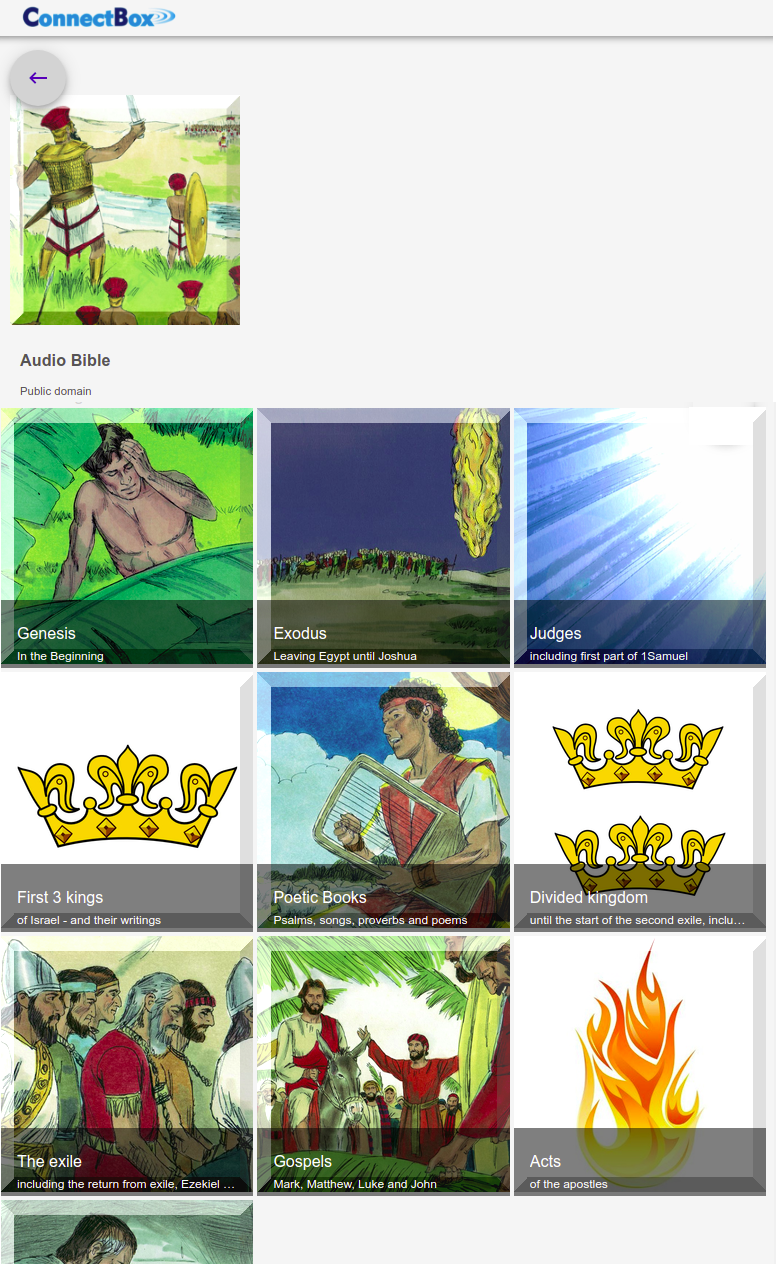
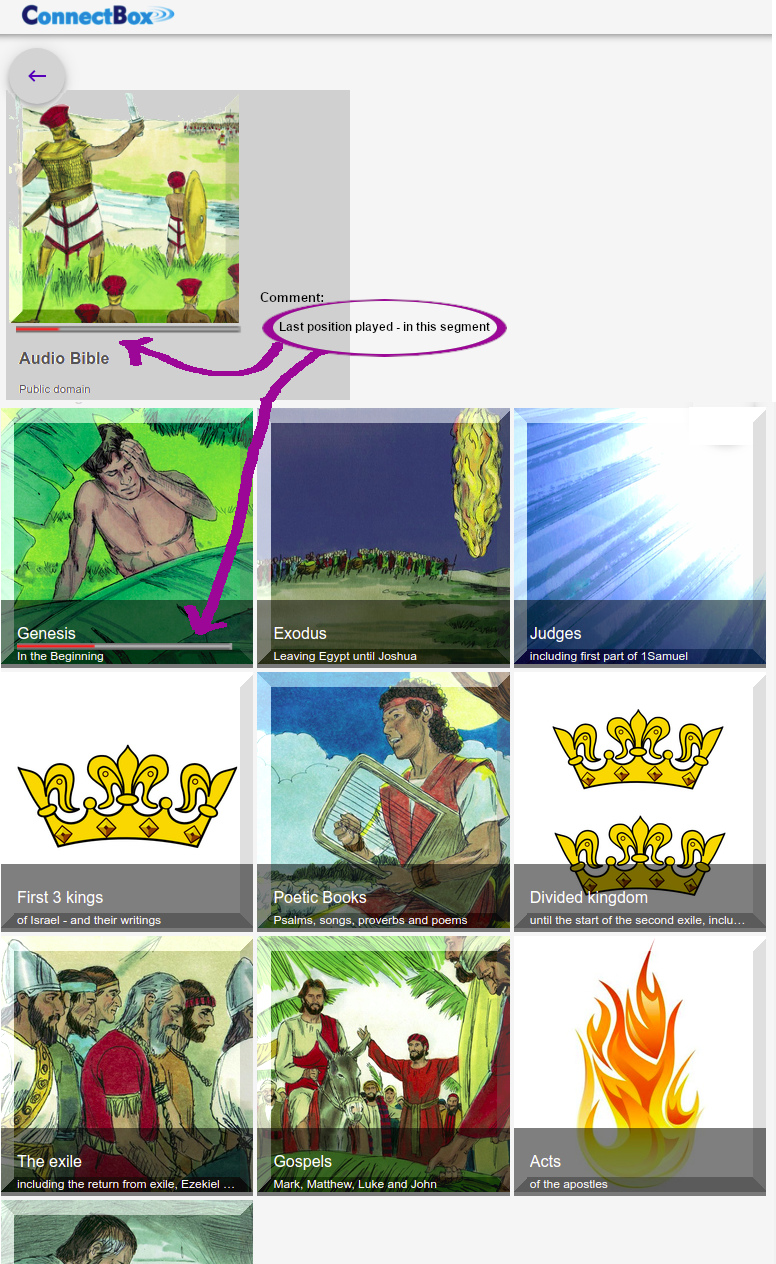
Update Roadmap.md Multi Level Navigation section

Changed region(s): [[0.0, 0.0617, 0.4948, 0.5245], [0.0309, 0.0, 0.2474, 0.0309], [0.5258, 0.2468, 0.6495, 0.2777]]

diff --git a/roadmap.md b/roadmap.md
@@ -1,3 +1,34 @@
-During drilling down within some multi level navigation, then the UI look needs to be adapted to be similar to the two-level navigation. Here is an example of such at the first lower level:&nbsp;
+# Roadmap
+
+## Multi Level Navigation
+
+### Level 1
+During drilling down within some multi level navigation, then the UI look needs to be adapted to be similar to the two-level navigation. Here is an example of such at the first lower level *(below the top level)*:&nbsp;
 
 <img alt="Bible-level1-roadmap.png" src="assets/Bible-level1-roadmap.png" width="" height="">&nbsp;
+
+>**Note:** The progress bars shown here above each indicate the last played position of that very section
+
+### Level 2
+After a click on the **"Genesis"** icon, then the next lower level looks similar. A new list is presented at the bottom part and also now both the two higher levels are visible at the top:&nbsp;
+
+<img alt="Bible-level2-roadmap.png" src="assets/Bible-level2-roadmap.png" width="" height="">&nbsp;
+
+>**Note:** The progress bar on the story about Joseph indicates the position of the last played story *(out of 13 episodes)*
+
+### Level 3
+A click on the **"Joseph"** icon presents the lowest level, also with a similar look. Now all three higher levels are visible at the top:&nbsp;
+
+<img alt="Bible-level3-roadmap.png" src="assets/Bible-level3-roadmap.png" width="" height="">&nbsp;
+
+>**Note:** The progress bars on each episode about Joseph indicate what percentage of the story has been played
+
+### Further needed improvements:
+
+- Strategy needed for clicking on different pictures or icons in order to **navigate down- / up-wards** vs. starting **playing** at the last played position.
+
+- Must decide at what level the multi level navigation should stay, once the audio playback starts *(currently the navigation returns to the very top - which is counter-intuitive)*
+
+- bookmarking last played position must be fixed *(a new multi level bookmarking strategy is needed)*
+
+- implement automatic continuing to the next audio
